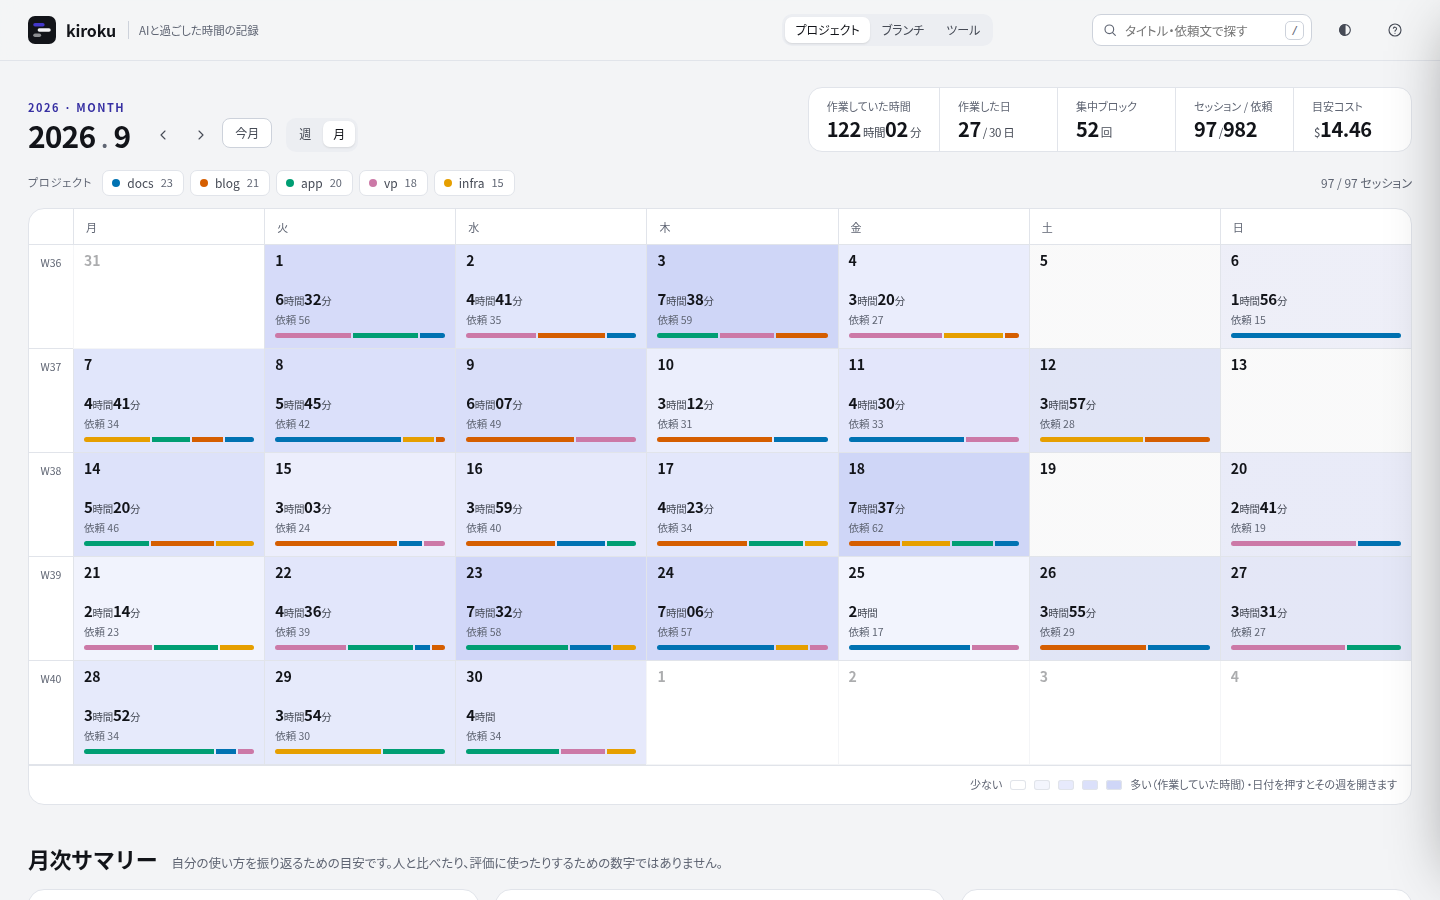
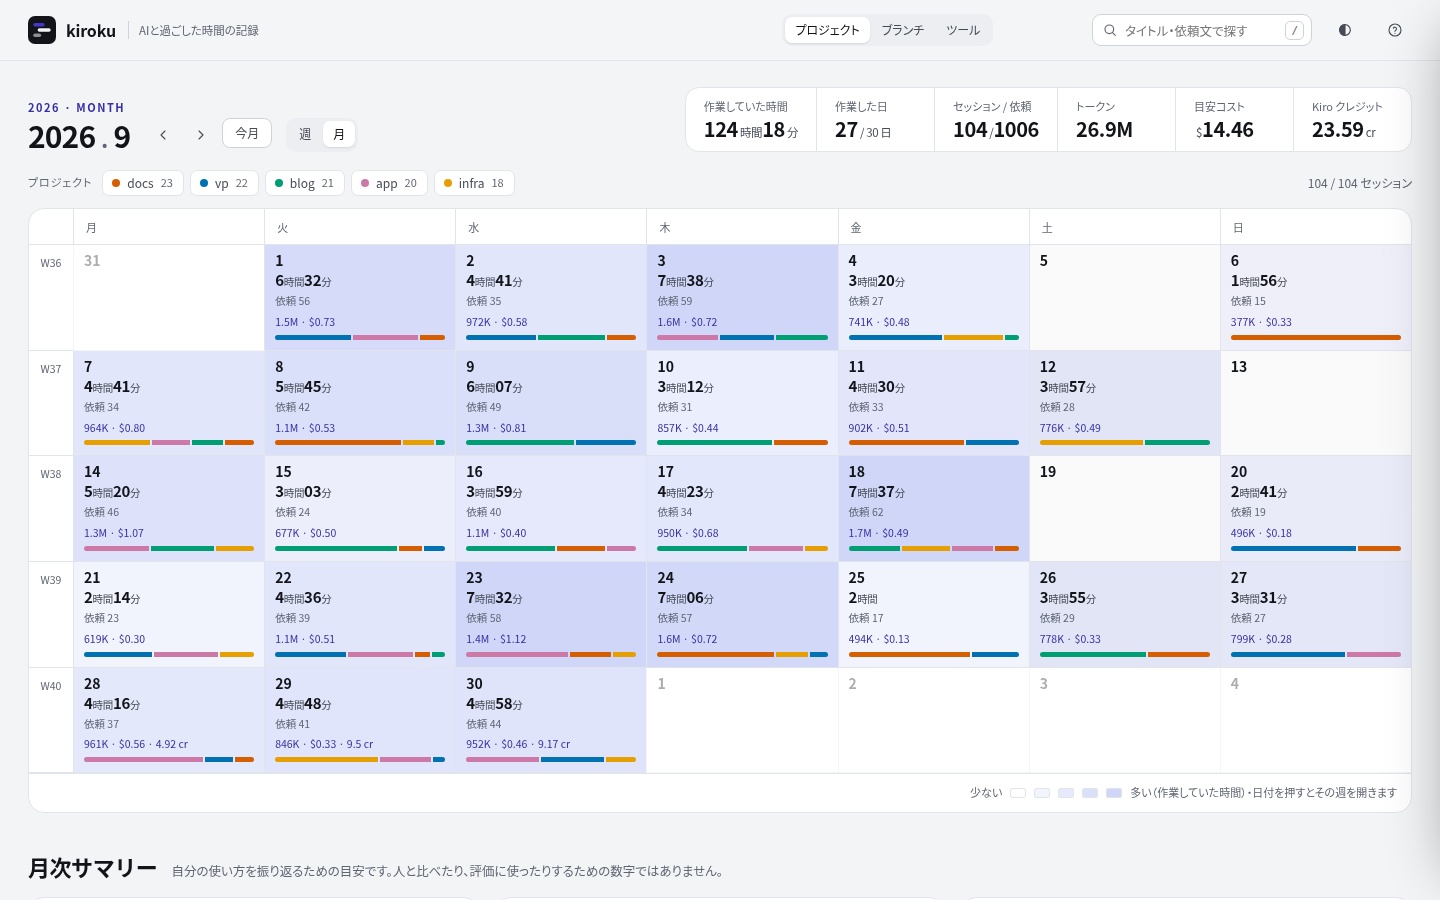
Show token, cost and credit usage per day, week and month
- report.Day gets tokens / cost / credits, bucketed by the day each
  usage event was recorded; a test checks the daily values add up to
  the period totals for every week and month
- Week calendar day headers and month calendar cells show the day's
  tokens, estimated cost and Kiro credits
- The summary's AI panel gets a per-day usage bar chart with a
  tokens / cost / credits switch (remembered per browser)
- The key-number strip shows tokens, cost and credits for the week or
  month
- The Markdown day table gains token, cost and credit columns
- README and screenshots updated

Claude-Session: https://claude.ai/code/session_01WXnCm54bK3Mj4QdxNoNc9j

diff --git a/internal/web/template.html b/internal/web/template.html
@@ -144,6 +144,16 @@ kbd{font:11px/1 var(--mono);padding:3px 5px;border-radius:5px;border:1px solid v
 .empty svg{width:56px;height:56px;color:var(--rule-2);stroke-width:1.2}
 .empty p{margin:10px 0 0}
 
+.head .use,.cell .use{display:block;font-size:10.5px;color:var(--acc-ink);font-variant-numeric:tabular-nums;white-space:nowrap;overflow:hidden;text-overflow:ellipsis}
+.ubar{display:grid;gap:3px;align-items:end;height:132px;padding-top:6px}
+.ubar .c{display:flex;flex-direction:column;align-items:center;justify-content:flex-end;gap:5px;height:100%;min-width:0}
+.ubar .b{width:100%;max-width:26px;border-radius:4px 4px 2px 2px;background:var(--acc);opacity:.85;min-height:0}
+.ubar .c:hover .b{opacity:1}
+.ubar .l{font-size:10px;color:var(--ink-3);font-variant-numeric:tabular-nums;height:12px}
+.ubar .c.today .l{color:var(--acc-ink);font-weight:700}
+.ubar .v{font-size:10px;color:var(--ink-2);font-variant-numeric:tabular-nums;height:12px;white-space:nowrap}
+.useg{display:flex;justify-content:space-between;align-items:center;gap:8px;margin:2px 0 4px}
+.useg .segc button{height:24px;font-size:11.5px}
 /* ── month（月カレンダー：日ごとの作業量） ───────────────── */
 .mgrid{display:grid;grid-template-columns:44px repeat(7,minmax(0,1fr))}
 .mgrid .mh{padding:10px 12px 8px;font-size:11px;color:var(--ink-3);border-left:1px solid var(--rule);border-bottom:1px solid var(--rule)}
@@ -407,7 +417,7 @@ const $ = s => document.querySelector(s);
 const store = { get(k,d){ try { const v = localStorage.getItem("kiroku:"+k); return v == null ? d : JSON.parse(v); } catch(e){ return d; } },
                 set(k,v){ try { localStorage.setItem("kiroku:"+k, JSON.stringify(v)); } catch(e){} } };
 const st = { z: store.get("zh", 2), colorBy: store.get("colorBy", "project"), theme: store.get("theme", "auto"),
-             week: mondayOf(new Date()), month: monthOf(new Date()), mode: store.get("mode", "week"),
+             week: mondayOf(new Date()), month: monthOf(new Date()), mode: store.get("mode", "week"), use: store.get("use", "tokens"),
              hidden: new Set(), sel: null, q: "", animate: true };
 
 /* ── helpers ── */
@@ -424,6 +434,8 @@ function dur(m, html){ m = Math.round(m); const h = Math.floor(m/60), r = m%60;
   return h ? `${h}<small>時間</small>${r ? String(r).padStart(2,"0")+"<small>分</small>" : ""}` : `${r}<small>分</small>`; }
 function tok(n){ n = n || 0; return n >= 1e9 ? (n/1e9).toFixed(1)+"B" : n >= 1e6 ? (n/1e6).toFixed(1)+"M" : n >= 1e3 ? Math.round(n/1e3)+"K" : String(n); }
 function usd(v){ return v == null ? "—" : v > 0 && v < 0.01 ? "<$0.01" : "$" + (v >= 100 ? Math.round(v).toLocaleString() : v.toFixed(2)); }
+function cr(v){ return `${Number(v.toFixed(2)).toLocaleString("ja-JP")} cr`; }
+function useShort(d){ if (!d) return ""; const p = []; if (d.tokens) p.push(tok(d.tokens)); if (d.cost >= 0.005) p.push(usd(d.cost)); if (d.credits) p.push(cr(d.credits)); return p.join(" · "); }
 function shade(i){ return [1,.72,.5,.34,.22,.14][Math.min(i,5)]; }
 function secs(v){ return v == null ? "—" : v < 60 ? `${v}秒` : `${Math.floor(v/60)}分${String(v%60).padStart(2,"0")}秒`; }
 function isoWeek(d){ d = new Date(Date.UTC(d.getFullYear(), d.getMonth(), d.getDate())); const n = d.getUTCDay() || 7; d.setUTCDate(d.getUTCDate()+4-n);
@@ -494,8 +506,9 @@ function kpis(){
   const kpi = (k, v) => `<div class="kpi"><div class="k">${k}</div><div class="v">${v}</div></div>`;
   const u = w.usage || {}, days = w.days.filter(d => d.active).length;
   K.innerHTML = kpi("作業していた時間", dur(w.active, true)) + kpi("作業した日", `${days}<small>/ ${w.days.length} 日</small>`) +
-    kpi("集中ブロック", `${w.focus.length}<small>回</small>`) + kpi("セッション / 依頼", `${w.sessions}<small>/</small>${w.prompts}`) +
-    (u.tokens ? kpi("目安コスト", usd(u.cost).replace("$","<small>$</small>")) : u.credits ? kpi("Kiro クレジット", `${u.credits}`) : "");
+    kpi("セッション / 依頼", `${w.sessions}<small>/</small>${w.prompts}`) +
+    (u.tokens ? kpi("トークン", tok(u.tokens)) + kpi("目安コスト", usd(u.cost).replace("$","<small>$</small>")) : "") +
+    (u.credits ? kpi("Kiro クレジット", `${Number(u.credits.toFixed(2)).toLocaleString("ja-JP")}<small>cr</small>`) : "");
 }
 
 /* 月のカレンダー：日ごとの作業時間を濃さで、プロジェクトの配分を細い帯で */
@@ -512,8 +525,8 @@ function monthGrid(shown, ms, me, todayKey){
       const x = S ? S.days[d.getDate()-1] : null, act = x ? x.active : 0;
       const by = {}; shown.forEach(s => s.segs.forEach(([a,b]) => { const o = Math.min(b,de) - Math.max(a,ds); if (o > 0) by[keyOf(s)] = (by[keyOf(s)]||0) + o; }));
       const pj = Object.entries(by).sort((a,b)=>b[1]-a[1]);
-      h += `<button class="cell${d.getDay()%6===0?" we":""}${key(d)===todayKey?" today":""}" data-w="${key(mondayOf(d))}" style="--heat:${(act/max).toFixed(3)}" title="${md(ds)} 作業 ${dur(act)}${x ? `・依頼 ${x.prompts}・深夜 ${dur(x.night)}` : ""}">
-        <span class="dn">${d.getDate()}</span>${act ? `<span class="ac">${dur(act, true)}</span><span class="sub2">依頼 ${x.prompts}</span>` : ""}
+      h += `<button class="cell${d.getDay()%6===0?" we":""}${key(d)===todayKey?" today":""}" data-w="${key(mondayOf(d))}" style="--heat:${(act/max).toFixed(3)}" title="${md(ds)} 作業 ${dur(act)}${x ? `・依頼 ${x.prompts}・深夜 ${dur(x.night)}${useShort(x) ? `・${useShort(x)}` : ""}` : ""}">
+        <span class="dn">${d.getDate()}</span>${act ? `<span class="ac">${dur(act, true)}</span><span class="sub2">依頼 ${x.prompts}</span>` : ""}${x && useShort(x) ? `<span class="use">${useShort(x)}</span>` : ""}
         ${pj.length ? `<span class="pj">${pj.map(([k,v])=>`<span style="flex:${v};--c:${colorOf(k)}"></span>`).join("")}</span>` : ""}</button>`;
     }
   }
@@ -538,7 +551,8 @@ function timeline(shown, inWeek, ws, we, todayKey){
   for (let d=0; d<7; d++){
     const day = addDays(st.week,d), ds = day.getTime()/1000, de = addDays(st.week,d+1).getTime()/1000, isToday = key(day) === todayKey;
     const act = w && w.days[d] ? w.days[d].active : 0;
-    heads += `<div class="head${isToday?" today":""}"><div class="dd"><b>${day.getMonth()+1}/${day.getDate()}</b><i>${DOW[day.getDay()]}</i></div><small>${act ? dur(act) : "—"}</small></div>`;
+    const dU = w && w.days[d] ? useShort(w.days[d]) : "";
+    heads += `<div class="head${isToday?" today":""}"><div class="dd"><b>${day.getMonth()+1}/${day.getDate()}</b><i>${DOW[day.getDay()]}</i></div><small>${act ? dur(act) : "—"}</small>${dU ? `<span class="use" title="トークン・目安コスト・クレジット">${dU}</span>` : ""}</div>`;
     const blocks = [];
     shown.forEach(s => s.segs.forEach(([a,b,n]) => { const x = Math.max(a,ds), y = Math.min(b,de); if (y > x) blocks.push({s, a:x, b:y, n}); }));
     blocks.sort((p,q) => p.a-q.a || q.b-p.b);
@@ -600,6 +614,7 @@ function summary(){
     </div>
     ${foot(cmd)}</section>
   <section class="panel">${ph(2, "AI の使い方", "使った量・費用・エージェント")}
+    ${usageChart(w, M)}
     ${aiUsage(w, pw, unit) || '<p class="none">トークンやクレジットの記録はありません。</p>'}
     ${nativeSection(w)}</section>
   <section class="panel shape">${ph(3, M ? "月のかたち" : "週のかたち", "どこに時間を使ったか")}
@@ -613,13 +628,31 @@ function summary(){
     ${w.friction.length ? w.friction.map(f=>`<button class="card" data-id="${esc(f.id)}"><span class="ti">${esc(f.title)}</span><span class="me">${md(f.start)} · ${esc(f.project)} ${f.why.map(x=>`<span class="tagx">${esc(x)}</span>`).join("")}</span></button>`).join("") : '<p class="none">言い直しや中断が目立つセッションはありませんでした。</p>'}
     ${measure(w)}</section></div>`;
   R.querySelectorAll(".card").forEach(c => c.onclick = () => select(c.dataset.id));
+  R.querySelectorAll("#useBy button").forEach(b => b.onclick = () => { st.use = b.dataset.v; store.set("use", st.use); summary(); });
   bindCopy(R);
+}
+/* 日ごとの使用量（トークン・目安コスト・クレジットを切り替え） */
+function usageChart(w, M){
+  const has = {tokens: w.days.some(d => d.tokens), cost: w.days.some(d => d.cost >= 0.005), credits: w.days.some(d => d.credits)};
+  const opts = [["tokens","トークン"],["cost","目安コスト"],["credits","クレジット"]].filter(([k]) => has[k]);
+  if (!opts.length) return "";
+  const m = has[st.use] ? st.use : opts[0][0], fmt = {tokens: tok, cost: usd, credits: cr}[m];
+  const max = Math.max(...w.days.map(d => d[m] || 0)) || 1, today = key(new Date()), total = w.days.reduce((t,d) => t + (d[m]||0), 0);
+  const start = M ? st.month : st.week;
+  const cols = w.days.map((d,i) => { const dd = addDays(start, i), v = d[m] || 0;
+    return `<div class="c${key(dd)===today?" today":""}" title="${md(dd.getTime()/1000)} ${esc(useShort(d) || "使用なし")}">
+      ${M ? "" : `<span class="v">${v ? fmt(v) : ""}</span>`}<div class="b" style="height:${v ? Math.max(2, v/max*80) : 0}px"></div>
+      <span class="l">${M ? (dd.getDate() === 1 || dd.getDate() % 5 === 0 ? dd.getDate() : "") : DOW[dd.getDay()]}</span></div>`; }).join("");
+  return `<h3>日ごとの使用量</h3>
+    <div class="useg"><div class="segc" role="group" aria-label="使用量の種類" id="useBy">${opts.map(([k,l]) => `<button data-v="${k}" aria-pressed="${k===m}">${l}</button>`).join("")}</div>
+      <span class="muted" style="font-size:11.5px">合計 ${fmt(total)}・最大 ${fmt(max)}/日</span></div>
+    <div class="ubar" style="grid-template-columns:repeat(${w.days.length},minmax(0,1fr))${M ? ";gap:2px" : ""}">${cols}</div>`;
 }
 /* 週なら日ごと、月なら週ごとの棒 */
 function rhythm(w, M){
   const today = key(new Date());
   let cols;
-  if (!M) cols = w.days.map((x,i) => { const dd = addDays(st.week,i); return {l:DOW[dd.getDay()], a:x.active, n:x.night, t:key(dd)===today, tip:`${md(dd.getTime()/1000)} 作業 ${dur(x.active)}・深夜 ${dur(x.night)}・依頼 ${x.prompts}・切り替え ${x.switches}`}; });
+  if (!M) cols = w.days.map((x,i) => { const dd = addDays(st.week,i); return {l:DOW[dd.getDay()], a:x.active, n:x.night, t:key(dd)===today, tip:`${md(dd.getTime()/1000)} 作業 ${dur(x.active)}・深夜 ${dur(x.night)}・依頼 ${x.prompts}・切り替え ${x.switches}${useShort(x) ? "・"+useShort(x) : ""}`}; });
   else { cols = []; w.days.forEach((x,i) => { const dd = new Date(st.month.getFullYear(), st.month.getMonth(), i+1), k = key(mondayOf(dd));
       let c = cols.find(c => c.k === k); if (!c){ c = {k, l:`W${isoWeek(dd)}`, a:0, n:0, p:0, t:k===key(mondayOf(new Date()))}; cols.push(c); }
       c.a += x.active; c.n += x.night; c.p += x.prompts; });

diff --git a/internal/report/week.go b/internal/report/week.go
@@ -26,10 +26,13 @@ type Block struct {
 }
 
 type Day struct {
-	Active   int `json:"active"`
-	Night    int `json:"night"`
-	Switches int `json:"switches"`
-	Prompts  int `json:"prompts"`
+	Active   int     `json:"active"`
+	Night    int     `json:"night"`
+	Switches int     `json:"switches"`
+	Prompts  int     `json:"prompts"`
+	Tokens   float64 `json:"tokens"`  // その日のトークン（入力・出力・キャッシュの合計）
+	Cost     float64 `json:"cost"`    // その日の目安コスト（API 換算）
+	Credits  float64 `json:"credits"` // その日の Kiro クレジット
 }
 
 type Friction struct {
@@ -279,6 +282,35 @@ func Summarize(data []*core.Session, wsT, weT time.Time) *Summary {
 			days[di].Switches++
 		}
 		prevDay, prevProj = di, x.p
+	}
+	// 日ごとの使用量（トークン・目安コスト・クレジット）は、記録された時刻の日に入れる
+	dayAt := func(t float64) int { return max(0, sort.Search(nd, func(i int) bool { return dayStart[i] > t })-1) }
+	for _, d := range data {
+		for _, e := range d.UEv {
+			t := d.Start
+			if e.T != nil && *e.T != 0 {
+				t = *e.T
+			}
+			if ws <= t && t < we {
+				x := &days[dayAt(t)]
+				x.Tokens += e.U.Total()
+				if e.Cost != nil {
+					x.Cost += *e.Cost
+				}
+			}
+		}
+		for _, c := range d.CEv {
+			t := d.Start
+			if c.T != nil && *c.T != 0 {
+				t = *c.T
+			}
+			if ws <= t && t < we {
+				days[dayAt(t)].Credits += c.V
+			}
+		}
+	}
+	for i := range days {
+		days[i].Cost, days[i].Credits = core.Round(days[i].Cost, 4), core.Round(days[i].Credits, 2)
 	}
 	activeDays, swSum, swMax := 0, 0, 0
 	for _, d := range days {

diff --git a/main_test.go b/main_test.go
@@ -7,6 +7,7 @@ import (
 	"os"
 	"path/filepath"
 	"sort"
+	"strings"
 	"testing"
 	"time"
 	_ "time/tzdata" // Windows などでも Asia/Tokyo を読めるように
@@ -128,9 +129,24 @@ func TestMonthlySummary(t *testing.T) {
 			t.Errorf("%s: 日ごとの合計 %d と月の作業時間 %d が違う", k, sum, m.Active)
 		}
 	}
+	all := map[string]*report.Summary{}
 	for k, w := range weeks {
 		if len(w.Days) != 7 {
 			t.Errorf("週 %s の日数 = %d", k, len(w.Days))
+		}
+		all["週 "+k] = w
+	}
+	for k, m := range report.AllMonths(data) {
+		all["月 "+k] = m
+	}
+	// 日ごとの使用量を足すと、期間の使用量になる
+	for k, x := range all {
+		var tok, cost, cr float64
+		for _, d := range x.Days {
+			tok, cost, cr = tok+d.Tokens, cost+d.Cost, cr+d.Credits
+		}
+		if tok != x.Usage.Tokens || math.Abs(cost-x.Usage.Cost) > 0.01 || math.Abs(cr-x.Usage.Credits) > 0.01 {
+			t.Errorf("%s: 日ごとの合計 tokens=%v cost=%v credits=%v、期間 %v %v %v", k, tok, cost, cr, x.Usage.Tokens, x.Usage.Cost, x.Usage.Credits)
 		}
 	}
 }
@@ -225,7 +241,9 @@ func compare(want, got any, path string, diffs *[]string) {
 			keys[k] = true
 		}
 		for k := range keys {
-			if k == "unpriced" && filepath.Base(filepath.ToSlash(path)) == "usage" || k == "native" {
+			inDay := strings.Contains(path, ".days[") && !strings.Contains(path[strings.LastIndex(path, ".days[")+1:], ".")
+			if k == "unpriced" && filepath.Base(filepath.ToSlash(path)) == "usage" || k == "native" ||
+				inDay && (k == "tokens" || k == "cost" || k == "credits") { // Go 版で足した日ごとの使用量
 				continue
 			}
 			wv, wok := w[k]

diff --git a/internal/report/markdown.go b/internal/report/markdown.go
@@ -158,7 +158,7 @@ func summaryMarkdown(st *Summary, report []source.Report, title, this string) st
 	for _, m := range u.Models {
 		L = append(L, fmt.Sprintf("- %s: $%s・%s トークン・%d 応答", m[0], comma(m[1].(float64), 2), intComma(m[2].(float64)), int(m[3].(float64))))
 	}
-	L = append(L, "", "日ごと:", "", "| 日 | 作業 | 深夜 | 依頼 | 切り替え |", "|---|---|---|---|---|")
+	L = append(L, "", "日ごと:", "", "| 日 | 作業 | 深夜 | 依頼 | 切り替え | トークン | 目安コスト | クレジット |", "|---|---|---|---|---|---|---|---|")
 	wd := []rune("日月火水木金土")
 	for i, x := range st.Days {
 		d := ws.AddDate(0, 0, i)
@@ -171,7 +171,14 @@ func summaryMarkdown(st *Summary, report []source.Report, title, this string) st
 			}
 			return strconv.Itoa(v)
 		}
-		L = append(L, fmt.Sprintf("| %s(%c) | %s | %s | %s | %s |", d.Format("01/02"), wd[d.Weekday()], z(x.Active, true), z(x.Night, true), z(x.Prompts, false), z(x.Switches, false)))
+		zf := func(v float64, f func(float64) string) string {
+			if v == 0 {
+				return "—"
+			}
+			return f(v)
+		}
+		L = append(L, fmt.Sprintf("| %s(%c) | %s | %s | %s | %s | %s | %s | %s |", d.Format("01/02"), wd[d.Weekday()], z(x.Active, true), z(x.Night, true), z(x.Prompts, false), z(x.Switches, false),
+			zf(x.Tokens, intComma), zf(x.Cost, func(v float64) string { return "$" + comma(v, 2) }), zf(x.Credits, func(v float64) string { return comma(v, -1) })))
 	}
 	L = append(L, "", "こじれたかもしれないセッション:", "")
 	if len(st.Friction) == 0 {

diff --git a/testdata/golden-month.md b/testdata/golden-month.md
@@ -38,38 +38,38 @@
 
 日ごと:
 
-| 日 | 作業 | 深夜 | 依頼 | 切り替え |
-|---|---|---|---|---|
-| 09/01(火) | — | — | — | — |
-| 09/02(水) | — | — | — | — |
-| 09/03(木) | 17分 | 17分 | 2 | — |
-| 09/04(金) | — | — | — | — |
-| 09/05(土) | — | — | — | — |
-| 09/06(日) | — | — | — | — |
-| 09/07(月) | — | — | — | — |
-| 09/08(火) | — | — | — | — |
-| 09/09(水) | 1時間54分 | — | 7 | — |
-| 09/10(木) | — | — | — | — |
-| 09/11(金) | — | — | — | — |
-| 09/12(土) | 31分 | — | 2 | — |
-| 09/13(日) | — | — | — | — |
-| 09/14(月) | — | — | — | — |
-| 09/15(火) | 39分 | — | 3 | — |
-| 09/16(水) | — | — | — | — |
-| 09/17(木) | — | — | — | — |
-| 09/18(金) | — | — | — | — |
-| 09/19(土) | 2時間08分 | 24分 | 8 | — |
-| 09/20(日) | — | — | — | — |
-| 09/21(月) | — | — | — | — |
-| 09/22(火) | — | — | — | — |
-| 09/23(水) | 1時間54分 | — | 7 | — |
-| 09/24(木) | — | — | — | — |
-| 09/25(金) | 25分 | — | 3 | — |
-| 09/26(土) | 3時間27分 | 24分 | 13 | 3 |
-| 09/27(日) | — | — | — | — |
-| 09/28(月) | 26分 | — | 4 | 1 |
-| 09/29(火) | 54分 | — | 11 | 2 |
-| 09/30(水) | 1時間15分 | — | 12 | 2 |
+| 日 | 作業 | 深夜 | 依頼 | 切り替え | トークン | 目安コスト | クレジット |
+|---|---|---|---|---|---|---|---|
+| 09/01(火) | — | — | — | — | — | — | — |
+| 09/02(水) | — | — | — | — | — | — | — |
+| 09/03(木) | 17分 | 17分 | 2 | — | 429,223 | $0.15 | — |
+| 09/04(金) | — | — | — | — | — | — | — |
+| 09/05(土) | — | — | — | — | — | — | — |
+| 09/06(日) | — | — | — | — | — | — | — |
+| 09/07(月) | — | — | — | — | — | — | — |
+| 09/08(火) | — | — | — | — | — | — | — |
+| 09/09(水) | 1時間54分 | — | 7 | — | 1,387,798 | $1.06 | — |
+| 09/10(木) | — | — | — | — | — | — | — |
+| 09/11(金) | — | — | — | — | — | — | — |
+| 09/12(土) | 31分 | — | 2 | — | 540,198 | $0.19 | — |
+| 09/13(日) | — | — | — | — | — | — | — |
+| 09/14(月) | — | — | — | — | — | — | — |
+| 09/15(火) | 39分 | — | 3 | — | 512,110 | $0.25 | — |
+| 09/16(水) | — | — | — | — | — | — | — |
+| 09/17(木) | — | — | — | — | — | — | — |
+| 09/18(金) | — | — | — | — | — | — | — |
+| 09/19(土) | 2時間08分 | 24分 | 8 | — | 1,912,465 | $1.42 | — |
+| 09/20(日) | — | — | — | — | — | — | — |
+| 09/21(月) | — | — | — | — | — | — | — |
+| 09/22(火) | — | — | — | — | — | — | — |
+| 09/23(水) | 1時間54分 | — | 7 | — | 1,387,798 | $1.06 | — |
+| 09/24(木) | — | — | — | — | — | — | — |
+| 09/25(金) | 25分 | — | 3 | — | 453,517 | $0.17 | — |
+| 09/26(土) | 3時間27分 | 24分 | 13 | 3 | 3,149,414 | $1.87 | — |
+| 09/27(日) | — | — | — | — | — | — | — |
+| 09/28(月) | 26分 | — | 4 | 1 | — | — | 4.92 |
+| 09/29(火) | 54分 | — | 11 | 2 | — | — | 9.5 |
+| 09/30(水) | 1時間15分 | — | 12 | 2 | — | — | 9.17 |
 
 こじれたかもしれないセッション:
 

diff --git a/README.md b/README.md
@@ -34,7 +34,8 @@ kiroku --monthly    # 最新の月の月次サマリーを Markdown で書き出
 
 - 縦型の週カレンダーに、セッションを帯で表示します（発言が多いほど濃く）。重なったセッションは横に並べます
 - 右上の「週 / 月」で切り替えます。月の表示は、日ごとの作業時間を濃さで、プロジェクトの配分を細い帯で見せる月カレンダーです。日付を押すと、その週の週カレンダーを開きます
-- カレンダーの上に、その週・月の要点（作業していた時間・作業した日・集中ブロック・セッション / 依頼・目安コスト）が出ます
+- カレンダーの上に、その週・月の要点（作業していた時間・作業した日・セッション / 依頼・トークン・目安コスト・Kiro クレジット）が出ます
+- 日ごとのトークン・目安コスト・クレジットを、週カレンダーの曜日の見出しと月カレンダーの各日に出します。サマリーの「日ごとの使用量」では、トークン / 目安コスト / クレジットを切り替えて棒グラフで見られます
 - 色分けはプロジェクト / ブランチ / ツール（エージェント）で切り替え。凡例クリックで表示・非表示
 - 帯をクリックすると、右から詳細が開きます：依頼の流れ（時刻つき）、使ったモデル、サブエージェント、使ったツール、変更したファイル、再開コマンド
 - カレンダーの下に、週次サマリー・月次サマリーを 3 列で出します（時間の使い方・AI の使い方・週 / 月のかたち）
@@ -78,6 +79,7 @@ kiroku --monthly --md-dir ~/notes     # 書き出す場所を変える
 | モデル別 | モデルごとの目安コストとトークン |
 | サブエージェント | `Task` / `Agent` で呼んだ回数、種類、延べ時間。セッションの詳細では、いつ・どの種類に・何を頼んで・どれくらいかかったかを並べます |
 | Kiro クレジット | Kiro の履歴に残っている実際のクレジット |
+| 日ごとの使用量 | 日ごとのトークン・目安コスト・クレジット。記録された時刻の日に入れます |
 | 1 依頼あたりの目安コスト | 目安コスト ÷ 依頼の数 |
 | 重かったセッション | 目安コストの大きい順に 3 つ |
 

diff --git a/testdata/golden-week.md b/testdata/golden-week.md
@@ -36,15 +36,15 @@
 
 日ごと:
 
-| 日 | 作業 | 深夜 | 依頼 | 切り替え |
-|---|---|---|---|---|
-| 09/28(月) | 26分 | — | 4 | 1 |
-| 09/29(火) | 54分 | — | 11 | 2 |
-| 09/30(水) | 1時間15分 | — | 12 | 2 |
-| 10/01(木) | 20分 | — | 3 | — |
-| 10/02(金) | — | — | — | — |
-| 10/03(土) | 55分 | — | 5 | 1 |
-| 10/04(日) | — | — | — | — |
+| 日 | 作業 | 深夜 | 依頼 | 切り替え | トークン | 目安コスト | クレジット |
+|---|---|---|---|---|---|---|---|
+| 09/28(月) | 26分 | — | 4 | 1 | — | — | 4.92 |
+| 09/29(火) | 54分 | — | 11 | 2 | — | — | 9.5 |
+| 09/30(水) | 1時間15分 | — | 12 | 2 | — | — | 9.17 |
+| 10/01(木) | 20分 | — | 3 | — | — | — | 4.5 |
+| 10/02(金) | — | — | — | — | — | — | — |
+| 10/03(土) | 55分 | — | 5 | 1 | 540,198 | $0.19 | 2.62 |
+| 10/04(日) | — | — | — | — | — | — | — |
 
 こじれたかもしれないセッション:
 
